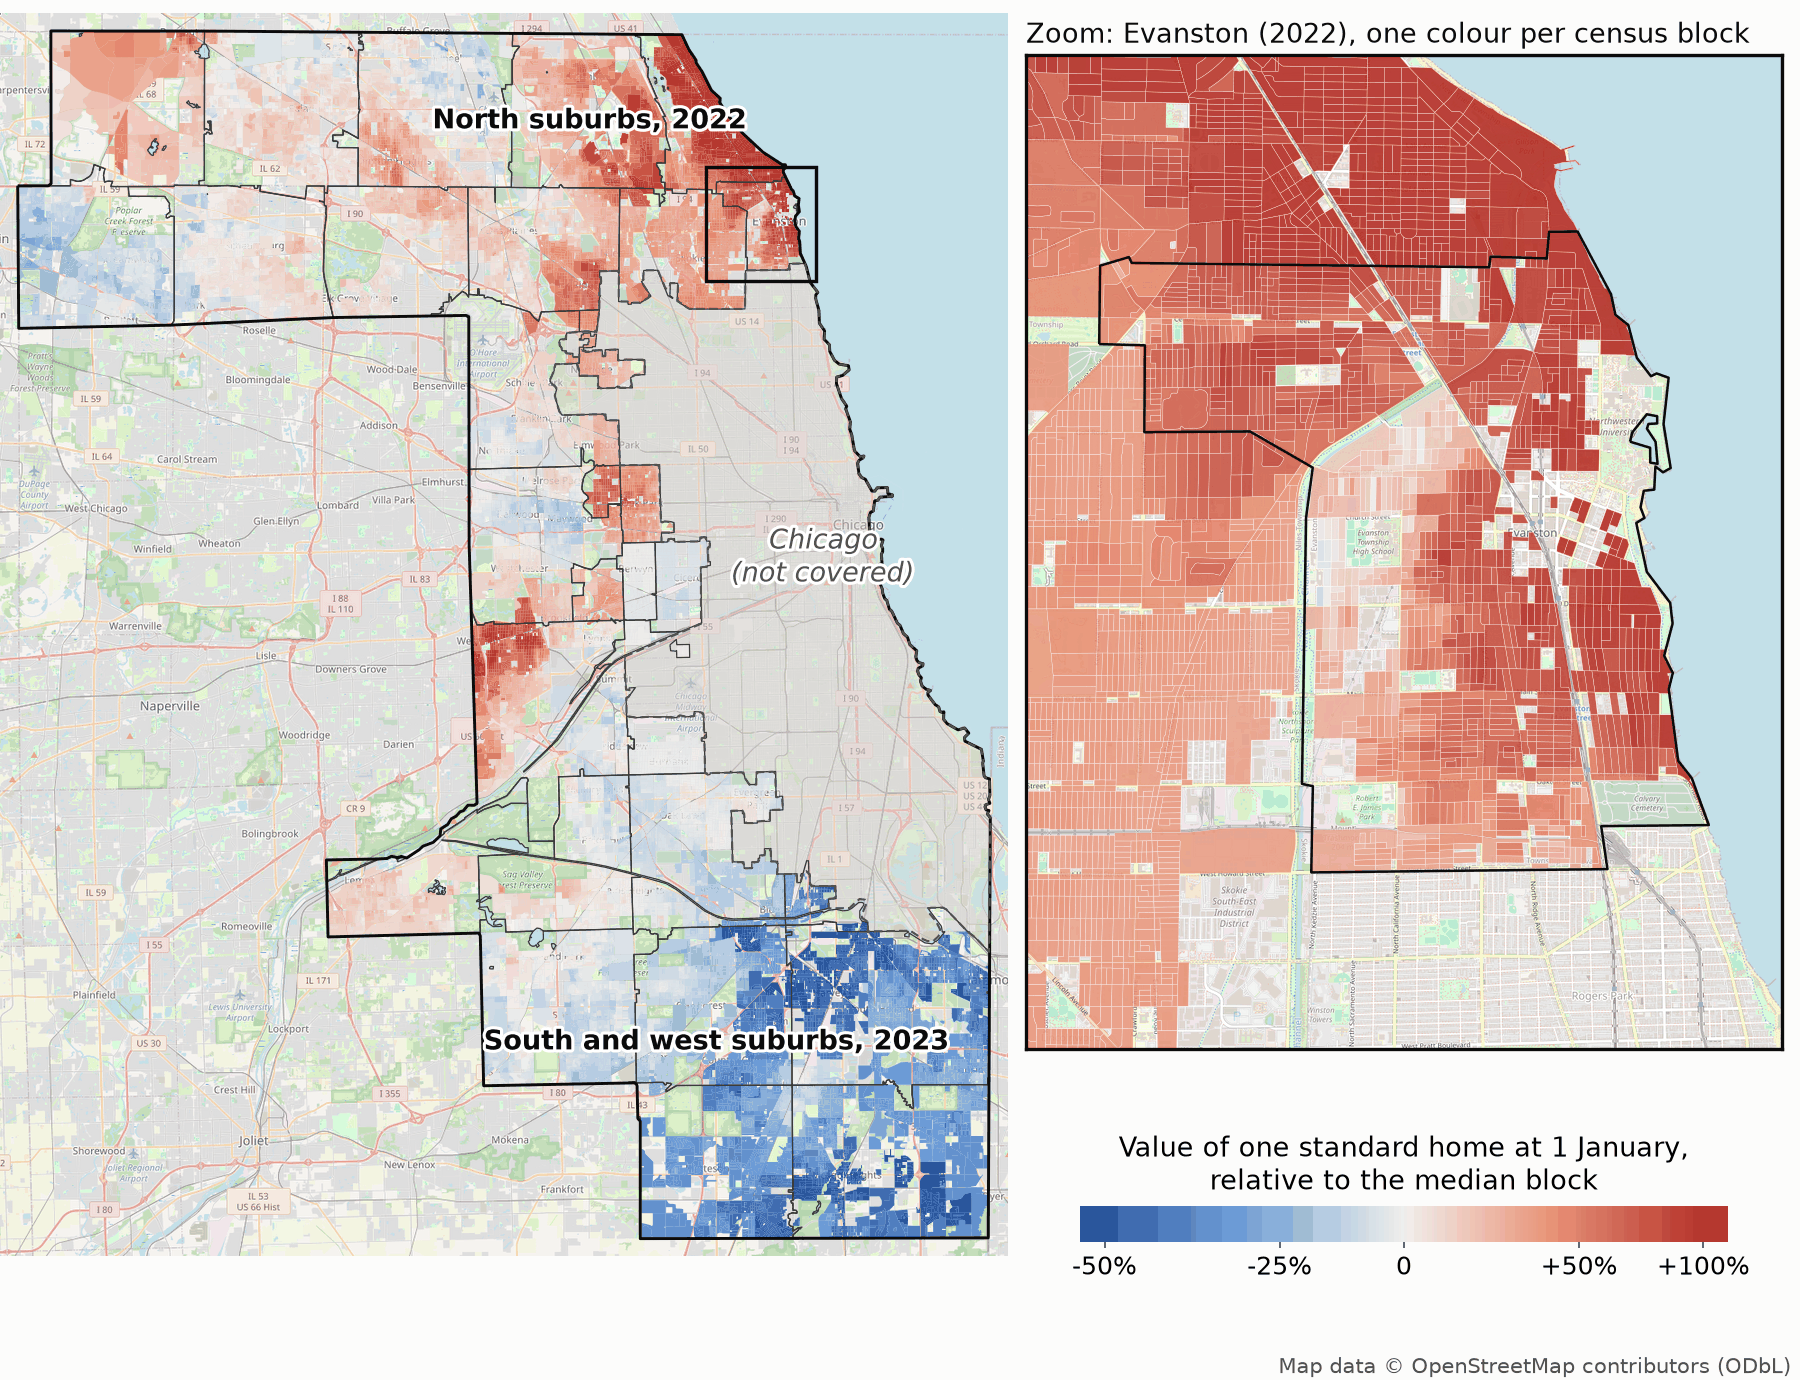
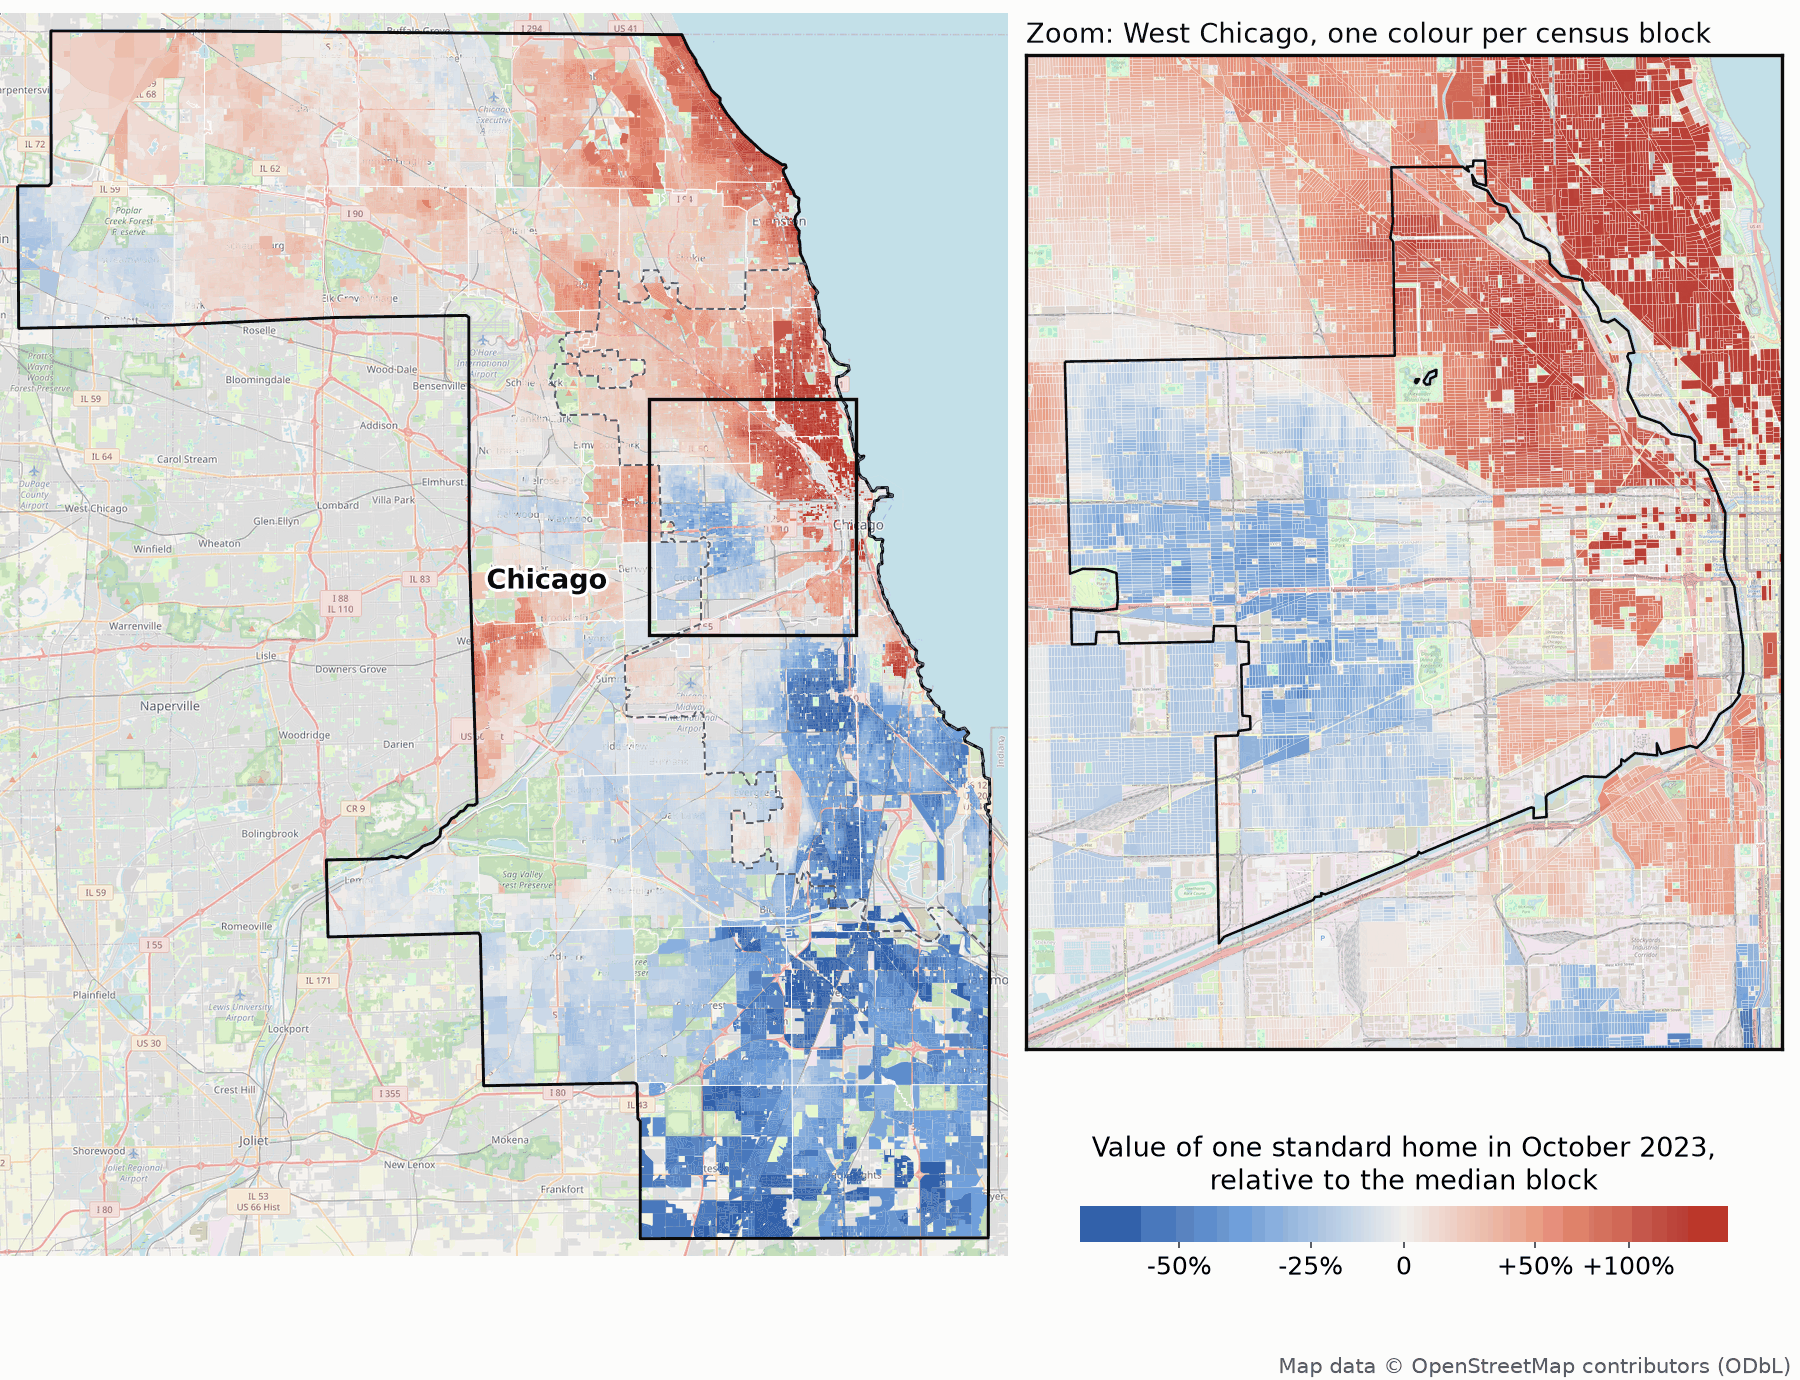
README: say up front that the GL model is compared with the Assessor's model, and what the Assessor's model is

diff --git a/scripts/v2/fig_location_map.py b/scripts/v2/fig_location_map.py
@@ -1,23 +1,28 @@
-"""The README's map (public/figures/location_map.png): the GL model's 1 January value of one standard home in every
-census block of the 30 fitted townships of Cook County, over an OpenStreetMap basemap, with a zoom on one township.
+"""The README's maps: the GL model's value of one standard home in every census block, over an OpenStreetMap basemap,
+with a zoom on one township. Two sets of fits:
+  --set county2025 (public/figures/location_map.png): the whole-county fits of all 38 townships, Chicago included,
+    on the Assessor's 2025 training sales, valued at October 2023 (their last training month);
+  --set assessment (public/figures/location_map_assessment.png): the 1 January fits of the 30 suburban townships
+    (north 2022, south and west 2023).
 
-Value of a block = posterior median, over the 4,000 draws of the published model P, of the log value at the valuation
-date (1 January 2023 or 2022) of the same standard home everywhere: intercept + mu[last training month] + zeta[k] +
-psi[k, last month] + u[s] + (x_std - training mean)' beta (stan/v2/gl_struct.stan; value_v2.py's formula). x_std is
-the median of each numeric characteristic and the most common level of each categorical one over the training sales of
-all 30 townships, coded with each township's own coding. Shown as exp(difference) - 1 in % from the median block shown,
-on one colour scale for the whole county, so colours compare across township lines. Blocks without eligible homes are
-left blank. A block that straddles two Assessor neighbourhoods is one unit per neighbourhood in the model; the map
-shows their mean weighted by homes. The Chicago outline is the Assessor's eight City townships (70-77).
+Value of a block = posterior median, over the 4,000 draws of the published model P, of the log value in the last
+training month of the same standard home everywhere: intercept + mu[last training month] + zeta[k] + psi[k, last
+month] + u[s] + (x_std - training mean)' beta (stan/v2/gl_struct.stan; value_v2.py's formula). x_std is the median of
+each numeric characteristic (the previous-sale count included, where it is a regressor) and the most common level of
+each categorical one over the training sales of all the set's townships, coded with each township's own coding. Shown
+as exp(difference) - 1 in % from the median block shown, on one colour scale for the whole county, so colours compare
+across township lines. Blocks without eligible homes are left blank. A block that straddles two Assessor
+neighbourhoods is one unit per neighbourhood in the model; the map shows their mean weighted by homes. The Chicago
+outline is the Assessor's eight City townships (70-77).
 
-Inputs: public/runs/v2/struct_eval/runs.json (the published runs, model P), each run's draws.npz and design.npz, the
-prepared units (public/data/v2/prep_*/t<code>/units.parquet), the census-block units of each year
+Inputs: the set's runs.json (public/runs/v2/county2025_eval/ or struct_eval/, model P), each run's draws.npz and
+design.npz, the prepared units (public/data/v2/prep_*/t<code>/units.parquet), the census-block units of each year
 (public/data/v2/blocks_2023_units.parquet, ay2022/blocks_2022_units.parquet) and the 2020 TIGER/Line block file
 (notes/v2/explore_blocks/tl_2020_17_tabblock20.zip). Basemap tiles are downloaded once from tile.openstreetmap.org
 (cached in public/data/v2/osm_tiles/); map data (c) OpenStreetMap contributors, ODbL.
 
-Usage (from the working folder): .venv/bin/python -I public/scripts/v2/fig_location_map.py [--style colour|light]
-[--zoom-town 17] [--out public/figures/location_map.png]
+Usage (from the working folder): .venv/bin/python -I public/scripts/v2/fig_location_map.py
+[--set county2025|assessment] [--style colour|light] [--zoom-town 17] [--out <png>]
 """
 import argparse
 import io
@@ -43,20 +48,20 @@ UNITS = {"2023": REPO / "public/data/v2/blocks_2023_units.parquet",
          "2022": REPO / "public/data/v2/ay2022/blocks_2022_units.parquet"}
 USER_AGENT = "gl-avm-cook-figure/1.0 (research figure; github.com/wsijp)"   # OSM's tile policy asks for one
 INK, INK2, SURFACE = "#0b0b0b", "#52514e", "#fcfcfb"
-NAMES = {"10": "Barrington", "11": "Berwyn", "12": "Bloom", "13": "Bremen", "14": "Calumet", "15": "Cicero",
+NAMES = {"70": "Hyde Park", "71": "Jefferson", "72": "Lake", "73": "Lake View", "74": "North Chicago",
+         "75": "Rogers Park", "76": "South Chicago", "77": "West Chicago", "10": "Barrington", "11": "Berwyn", "12": "Bloom", "13": "Bremen", "14": "Calumet", "15": "Cicero",
          "16": "Elk Grove", "17": "Evanston", "18": "Hanover", "19": "Lemont", "20": "Leyden", "21": "Lyons",
          "22": "Maine", "23": "New Trier", "24": "Niles", "25": "Northfield", "26": "Norwood Park",
          "27": "Oak Park", "28": "Orland", "29": "Palatine", "30": "Palos", "31": "Proviso", "32": "Rich",
          "33": "River Forest", "34": "Riverside", "35": "Schaumburg", "36": "Stickney", "37": "Thornton",
          "38": "Wheeling", "39": "Worth"}
-CAT_COLS = ["char_air", "char_apts", "char_attic_fnsh", "char_attic_type", "char_bsmt", "char_bsmt_fin",
-            "char_ext_wall", "char_gar1_area", "char_gar1_att", "char_gar1_cnst", "char_gar1_size", "char_heat",
-            "char_porch", "char_roof_cnst", "char_tp_dsgn", "char_tp_plan", "char_type_resd"]   # prep_v2.CAT
 CITY = {str(t) for t in range(70, 78)}
 # blue (below the median block) to red (above it) through a neutral grey
 CMAP = LinearSegmentedColormap.from_list("div", ["#1f4e9c", "#6fa0dc", "#f0efec", "#e98a6b", "#b2241b"])
-LIMIT = 0.75                                      # colour scale +-0.75 log points (-53% to +112%), about the 95th
-TICKS = [-50, -25, 0, 50, 100]                    # percentile of |difference|; beyond is saturated. % of price
+# colour scale in log points, about the 95th (assessment: +-0.75, -53% to +112%) or 97th (county: +-1.0, -63% to
+# +172%) percentile of |difference|; beyond is saturated. Ticks in % of price
+LIMIT = {"assessment": 0.75, "county2025": 1.0}
+TICKS = {"assessment": [-50, -25, 0, 50, 100], "county2025": [-50, -25, 0, 50, 100]}
 
 
 def decode(t, coding):
@@ -86,9 +91,11 @@ def standard_home(runs):
         prep = REPO / r["prep"] / f"t{r['town']}"
         xs.append(decode(pd.read_parquet(prep / "train.parquet"), json.loads((prep / "coding.json").read_text())))
     x = pd.concat(xs)
-    num = [c for c in x.columns if c not in CAT_COLS]
+    cat = sorted({c for r in runs for c in json.loads((REPO / r["prep"] / f"t{r['town']}" / "coding.json").read_text())
+                  ["categorical"]})
+    num = [c for c in x.columns if c not in cat]
     return ({c: float(x[c].median()) for c in num},
-            {c: x.loc[x[c] != "other", c].value_counts().index[0] for c in CAT_COLS})   # "other" differs by township
+            {c: x.loc[x[c] != "other", c].value_counts().index[0] for c in cat})   # "other" differs by township
 
 
 def encode(home, coding, xcols):
@@ -123,16 +130,19 @@ def unit_values(r, home):
     return units.assign(value=np.median(common[:, None] + d["zeta"][:, k] + d["psi_last"][:, k] + d["u"], axis=0))
 
 
-def published_runs():
+def published_runs(which):
+    if which == "county2025":                        # one fit per township, all on the 2023 census-block units
+        return [dict(r, model="P", year="2023") for r in
+                json.loads((REPO / "public/runs/v2/county2025_eval/runs.json").read_text()).values()]
     return [r for r in json.loads((REPO / "public/runs/v2/struct_eval/runs.json").read_text()).values()
             if r["model"] == "P"]
 
 
-def block_values():
-    """one row per census block: the model's 1 January log value of the standard home there (posterior median of
-    intercept + mu[last month] + zeta[k] + psi[k, last month] + u[s] + (x_std - training mean)' beta); the fitted
-    townships; their years; the standard home"""
-    runs = published_runs()
+def block_values(which):
+    """one row per census block: the model's log value of the standard home there in the last training month
+    (posterior median of intercept + mu[last month] + zeta[k] + psi[k, last month] + u[s] + (x_std - training mean)'
+    beta); the fitted townships; their years; the standard home"""
+    runs = published_runs(which)
     home = standard_home(runs)
     out = []
     for r in sorted(runs, key=lambda r: (r["year"], r["town"])):
@@ -204,13 +214,18 @@ def halo(width=2.5):
 
 def main():
     ap = argparse.ArgumentParser()
+    ap.add_argument("--set", dest="which", choices=["county2025", "assessment"], default="county2025")
     ap.add_argument("--style", choices=["colour", "light"], default="colour")
-    ap.add_argument("--zoom-town", default="17")
-    ap.add_argument("--out", default="public/figures/location_map.png")
+    ap.add_argument("--zoom-town", default=None)       # county2025: West Chicago (77); assessment: Evanston (17)
+    ap.add_argument("--out", default=None)
     a = ap.parse_args()
+    county_set = a.which == "county2025"
+    a.zoom_town = a.zoom_town or ("77" if county_set else "17")
+    a.out = a.out or ("public/figures/location_map.png" if county_set else "public/figures/location_map_assessment.png")
 
-    e, fitted_towns, year_of, home = block_values()
+    e, fitted_towns, year_of, home = block_values(a.which)
     print("standard home:", home)
+    print(f"median block: ${math.exp(e['value'].median()):,.0f}")
     blk = gpd.read_file(f"zip://{TIGER}", where="COUNTYFP20 = '031'", engine="pyogrio",
                         columns=["COUNTYFP20", "GEOID20", "ALAND20"]).to_crs(3857)
     towns_of = pd.read_parquet(UNITS["2023"], columns=["block_geoid", "town"]).drop_duplicates("block_geoid")
@@ -222,10 +237,10 @@ def main():
     fitted = towns[towns.index.isin(fitted_towns)]
     m = blk.merge(e, left_on="GEOID20", right_on="block_geoid")
     print(f"{len(m):,} blocks with an effect in {len(fitted_towns)} townships; "
-          f"{(m['effect'].abs() > LIMIT).mean():.1%} beyond the colour scale")
+          f"{(m['effect'].abs() > LIMIT[a.which]).mean():.1%} beyond the colour scale")
 
     plt.rcParams.update({"font.size": 12, "text.color": INK, "figure.facecolor": SURFACE})
-    norm = Normalize(-LIMIT, LIMIT)
+    norm = Normalize(-LIMIT[a.which], LIMIT[a.which])
     fig = plt.figure(figsize=(12, 9.2))
     ax = fig.add_axes([0.0, 0.08, 0.56, 0.92])
     zx = fig.add_axes([0.57, 0.24, 0.42, 0.72])
@@ -236,17 +251,24 @@ def main():
     bounds = (b[0] - pad, b[1] - pad, b[2] + pad, b[3] + pad)
     basemap(ax, bounds, 11, a.style)
     m.plot(ax=ax, column="effect", cmap=CMAP, norm=norm, linewidth=0, zorder=2)
-    fitted.boundary.plot(ax=ax, color="#3a3a38", linewidth=0.6, zorder=4)
     county.boundary.plot(ax=ax, color=INK, linewidth=1.4, zorder=5)
-    chicago.plot(ax=ax, color="#d9d7d0", alpha=0.45, linewidth=0, zorder=1)
-    chicago.boundary.plot(ax=ax, color=INK2, linewidth=1.0, linestyle=(0, (4, 2)), zorder=5)
-    c = chicago.iloc[0].representative_point()
-    ax.annotate("Chicago\n(not covered)", (c.x + 2500, c.y + 4000), ha="center", va="center", fontsize=13,
-                color=INK2, style="italic", zorder=6, path_effects=halo(3))
-    for lab, (dx, dy), t in [("North suburbs, 2022", (0, 0), "25"), ("South and west suburbs, 2023", (0, 0), "13")]:
-        p = towns.loc[t].geometry.representative_point()
-        ax.annotate(lab, (p.x + dx, p.y + dy), ha="center", va="center", fontsize=13, fontweight="bold",
+    if county_set:                                   # thin light township lines; the City outline a little stronger
+        fitted.boundary.plot(ax=ax, color="white", linewidth=0.45, alpha=0.8, zorder=4)
+        chicago.boundary.plot(ax=ax, color=INK2, linewidth=0.9, linestyle=(0, (4, 2)), zorder=5)
+        c = chicago.iloc[0].representative_point()
+        ax.annotate("Chicago", (c.x + 1500, c.y - 15000), ha="center", va="center", fontsize=13, fontweight="bold",
                     color=INK, zorder=6, path_effects=halo(3))
+    else:
+        fitted.boundary.plot(ax=ax, color="#3a3a38", linewidth=0.6, zorder=4)
+        chicago.plot(ax=ax, color="#d9d7d0", alpha=0.45, linewidth=0, zorder=1)
+        chicago.boundary.plot(ax=ax, color=INK2, linewidth=1.0, linestyle=(0, (4, 2)), zorder=5)
+        c = chicago.iloc[0].representative_point()
+        ax.annotate("Chicago\n(not covered)", (c.x + 2500, c.y + 4000), ha="center", va="center", fontsize=13,
+                    color=INK2, style="italic", zorder=6, path_effects=halo(3))
+        for lab, t in [("North suburbs, 2022", "25"), ("South and west suburbs, 2023", "13")]:
+            p = towns.loc[t].geometry.representative_point()
+            ax.annotate(lab, (p.x, p.y), ha="center", va="center", fontsize=13, fontweight="bold",
+                        color=INK, zorder=6, path_effects=halo(3))
     zt = towns.loc[a.zoom_town].geometry
     zb = zt.bounds
     zpad = 900
@@ -272,15 +294,18 @@ def main():
     zx.set_aspect("equal"); zx.set_xticks([]); zx.set_yticks([]); zx.set_xlabel(""); zx.set_ylabel("")
     for s in zx.spines.values():
         s.set_edgecolor(INK); s.set_linewidth(1.6)
-    zx.set_title(f"Zoom: {NAMES[a.zoom_town]} ({year_of[a.zoom_town]}), one colour per census block", fontsize=13, loc="left")
+    zlab = NAMES[a.zoom_town] if county_set else f"{NAMES[a.zoom_town]} ({year_of[a.zoom_town]})"
+    zx.set_title(f"Zoom: {zlab}, one colour per census block", fontsize=13, loc="left")
 
     # legend
     cax = fig.add_axes([0.60, 0.10, 0.36, 0.026])
     cb = fig.colorbar(plt.cm.ScalarMappable(norm=norm, cmap=CMAP), cax=cax, orientation="horizontal")
-    cb.set_ticks([math.log1p(t / 100) for t in TICKS], labels=[f"{t:+d}%" if t else "0" for t in TICKS])
+    cb.set_ticks([math.log1p(t / 100) for t in TICKS[a.which]],
+                labels=[f"{t:+d}%" if t else "0" for t in TICKS[a.which]])
     cb.outline.set_visible(False)
     cb.ax.tick_params(labelsize=12, length=3, color=INK2)
-    cb.set_label("Value of one standard home at 1 January,\nrelative to the median block", fontsize=13, labelpad=8)
+    when = "in October 2023" if county_set else "at 1 January"
+    cb.set_label(f"Value of one standard home {when},\nrelative to the median block", fontsize=13, labelpad=8)
     cb.ax.xaxis.set_label_position("top")
     fig.text(0.995, 0.005, "Map data © OpenStreetMap contributors (ODbL)", fontsize=10, color=INK2, ha="right")
     out = REPO / a.out

diff --git a/README.md b/README.md
@@ -1,6 +1,6 @@
 # An open house valuation model, validated on Cook County IL
 
-This repository contains the code of the **GL model**, an open Bayesian house valuation model, and a test of it as an assessment model on part of Cook County, Illinois.
+This repository contains the code of the **GL model**, an open Bayesian house valuation model, and a comparison of it with the Cook County Assessor’s own valuation model on part of Cook County, Illinois.
 
 ![Value of a standard home per census block in the 30 townships studied](figures/location_map.png)
 
@@ -16,7 +16,7 @@ The model code can be used as a house valuation model more generally, fitted to 
 
 ### Getting started
 
-[REPRODUCE.md](REPRODUCE.md) lists the prerequisites, the commands for each stage, their runtimes and where every result is written. The Assessor’s model runs in Docker; read REPRODUCE.md’s memory instructions for it before running `all`. The scripts expect this repository to be in a subfolder named `public` inside a working folder:
+The repository runs two models on the same public data: the GL model, whose code is here, and, for comparison, the Cook County Assessor’s own valuation model. The Assessor publishes that model’s code ([ccao-data/model-res-avm](https://github.com/ccao-data/model-res-avm)) but not its fitted runs, so the scripts here rebuild it from their code and public inputs for each year, run it unchanged in Docker, and do not redistribute it; the rebuild reproduces about three quarters of the Assessor’s published values exactly. [REPRODUCE.md](REPRODUCE.md) lists the prerequisites, the commands for each stage (including the Docker memory setting for the Assessor’s model), their runtimes and where every result is written. The scripts expect this repository to be in a subfolder named `public` inside a working folder:
 
 ```bash
 mkdir work && cd work
